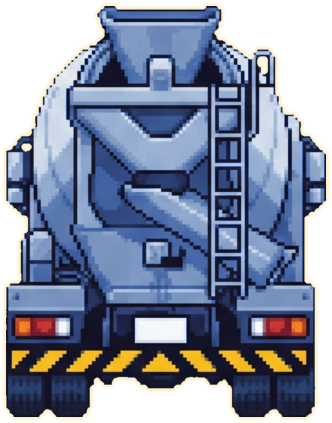
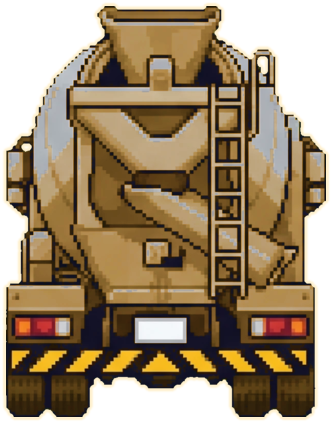
Highway: make pickups and obstacles stand out
Pickups get a pad ringed on the road, a pulsing halo, a white rim and a bob so they can't be
mistaken for cars. Cones and barriers use new high-visibility sprites (orange / yellow, rimmed),
and the SUV and mixer truck are recolored (lavender / khaki) so no vehicle shares a pickup's color.

diff --git a/app/src/main/java/com/khcompany/lanedash/ui/screens/HighwayScreen.kt b/app/src/main/java/com/khcompany/lanedash/ui/screens/HighwayScreen.kt
@@ -43,6 +43,8 @@ import androidx.compose.ui.graphics.ImageBitmap
 import androidx.compose.ui.graphics.Path
 import androidx.compose.ui.graphics.drawscope.DrawScope
 import androidx.compose.ui.graphics.drawscope.rotate
+import com.khcompany.lanedash.ui.components.FUEL_ITEM_COLOR
+import androidx.compose.ui.graphics.drawscope.Stroke
 import androidx.compose.ui.graphics.graphicsLayer
 import androidx.compose.ui.graphics.lerp
 import androidx.compose.ui.draw.alpha
@@ -297,15 +299,34 @@ fun HighwayScreen(
                 if (dz < 1f || dz > HW_DRAW_DISTANCE) continue
                 val y = horizonY + roadH * (HW_D0 / dz)
                 val idx = strips.indexForY(y, h, rowH)
-                val radius = ITEM_RADIUS * strips.halfWidth[idx]
+                val pulse = 1f + 0.08f * sin(engine.elapsedSeconds * 6f + item.id)
+                val radius = ITEM_RADIUS * strips.halfWidth[idx] * pulse
                 val cx = strips.centerX[idx] + item.lx * strips.halfWidth[idx]
-                drawGroundShadow(cx, y, radius * 1.7f, radius * 1.2f, alpha = 0.3f)
-                val center = Offset(cx, y - radius * 1.3f)
+                val color = when (item.type) {
+                    ItemType.FUEL -> FUEL_ITEM_COLOR
+                    ItemType.SHIELD -> SHIELD_ITEM_COLOR
+                    ItemType.MAGNET -> MAGNET_ITEM_COLOR
+                }
+                // A pickup must never be mistaken for a car: a pad ringed on the road, a halo, a
+                // white rim and a gentle bob — none of which a vehicle or an obstacle has.
+                drawOval(
+                    color = color.copy(alpha = 0.85f),
+                    topLeft = Offset(cx - radius * 1.5f, y - radius * 0.38f),
+                    size = Size(radius * 3f, radius * 0.76f),
+                    style = Stroke(width = max(2f, radius * 0.14f)),
+                )
+                val center = Offset(cx, y - radius * 1.35f + sin(engine.elapsedSeconds * 4f + item.id) * radius * 0.12f)
+                drawCircle(
+                    brush = Brush.radialGradient(listOf(color.copy(alpha = 0.6f), Color.Transparent), center = center, radius = radius * 2.3f),
+                    radius = radius * 2.3f,
+                    center = center,
+                )
                 when (item.type) {
                     ItemType.FUEL -> drawFuelCanItem(center, radius)
                     ItemType.SHIELD -> drawShieldItem(center, radius)
                     ItemType.MAGNET -> drawMagnetItem(center, radius)
                 }
+                drawCircle(Color.White.copy(alpha = 0.9f), radius = radius * 1.1f, center = center, style = Stroke(width = max(1.5f, radius * 0.1f)))
             }
 
             // Traffic, far to near so closer cars paint over farther ones.

diff --git a/web/js/highway-render.js b/web/js/highway-render.js
@@ -237,13 +237,33 @@ function drawHighwayFrame(ctx, w, h, engine, city, car, images) {
     if (dz < 1 || dz > HW_DRAW_DISTANCE) continue;
     const y = horizonY + roadH * (HW_D0 / dz);
     const idx = hwStrips.indexForY(y, h, rowH);
-    const radius = HW_ITEM_RADIUS * hwStrips.halfWidth[idx];
+    const pulse = 1 + 0.08 * Math.sin(engine.elapsedSeconds * 6 + item.id);
+    const radius = HW_ITEM_RADIUS * hwStrips.halfWidth[idx] * pulse;
     const cx = hwStrips.centerX[idx] + item.lx * hwStrips.halfWidth[idx];
-    drawGroundShadow(ctx, cx, y, radius * 1.7, radius * 1.2, 0.3);
-    const cy = y - radius * 1.3;
+    const color = item.type === 'FUEL' ? FUEL_ITEM_COLOR : item.type === 'SHIELD' ? SHIELD_ITEM_COLOR : MAGNET_ITEM_COLOR;
+    // A pickup must never be mistaken for a car: a pad ringed on the road, a halo, a white rim and
+    // a gentle bob — none of which a vehicle or an obstacle has.
+    ctx.strokeStyle = hexA(color, 0.85);
+    ctx.lineWidth = Math.max(2, radius * 0.14);
+    ctx.beginPath();
+    ctx.ellipse(cx, y, radius * 1.5, radius * 0.38, 0, 0, Math.PI * 2);
+    ctx.stroke();
+    const cy = y - radius * 1.35 + Math.sin(engine.elapsedSeconds * 4 + item.id) * radius * 0.12;
+    const halo = ctx.createRadialGradient(cx, cy, 0, cx, cy, radius * 2.3);
+    halo.addColorStop(0, hexA(color, 0.6));
+    halo.addColorStop(1, hexA(color, 0));
+    ctx.fillStyle = halo;
+    ctx.beginPath();
+    ctx.arc(cx, cy, radius * 2.3, 0, Math.PI * 2);
+    ctx.fill();
     if (item.type === 'FUEL') drawFuelCanItem(ctx, cx, cy, radius);
     else if (item.type === 'SHIELD') drawShieldItem(ctx, cx, cy, radius);
     else drawMagnetItem(ctx, cx, cy, radius);
+    ctx.strokeStyle = 'rgba(255,255,255,0.9)';
+    ctx.lineWidth = Math.max(1.5, radius * 0.1);
+    ctx.beginPath();
+    ctx.arc(cx, cy, radius * 1.1, 0, Math.PI * 2);
+    ctx.stroke();
   }
 
   // Traffic, far to near so closer cars paint over farther ones.

diff --git a/web/js/highway-engine.js b/web/js/highway-engine.js
@@ -95,8 +95,8 @@ const TRAFFIC_KINDS = {
   SUV: { name: 'SUV', halfWidth: 0.15, heightFactor: 0.88, minSpeed: 8.5, maxSpeed: 12.5, sprite: 'assets/rear/traffic_rear_suv.png', color: '#5C6478' },
   BUS: { name: 'BUS', halfWidth: 0.19, heightFactor: 1.05, minSpeed: 7, maxSpeed: 10.5, sprite: 'assets/rear/traffic_rear_bus.png', color: '#A7AFBF' },
   TRUCK: { name: 'TRUCK', halfWidth: 0.18, heightFactor: 1.29, minSpeed: 6, maxSpeed: 9.5, sprite: 'assets/rear/traffic_rear_truck.png', color: '#7F8CA8' },
-  CONE: { name: 'CONE', halfWidth: 0.07, heightFactor: 1.4, minSpeed: 0, maxSpeed: 0, sprite: 'assets/obstacles/obstacle_cone.png', color: '#FF7A1A' },
-  BARRIER: { name: 'BARRIER', halfWidth: 0.17, heightFactor: 0.6, minSpeed: 0, maxSpeed: 0, sprite: 'assets/obstacles/obstacle_barrier.png', color: '#E8E8E8' },
+  CONE: { name: 'CONE', halfWidth: 0.09, heightFactor: 1.35, minSpeed: 0, maxSpeed: 0, sprite: 'assets/rear/hw_cone.png', color: '#FF7A1A' },
+  BARRIER: { name: 'BARRIER', halfWidth: 0.17, heightFactor: 1.1, minSpeed: 0, maxSpeed: 0, sprite: 'assets/rear/hw_barrier.png', color: '#FFE03A' },
 };
 
 const HW = {

diff --git a/app/src/main/java/com/khcompany/lanedash/game/highway/HighwayEngine.kt b/app/src/main/java/com/khcompany/lanedash/game/highway/HighwayEngine.kt
@@ -31,8 +31,8 @@ enum class TrafficKind(
     SUV(0.15f, 0.88f, 8.5f, 12.5f, "traffic_rear_suv"),
     BUS(0.19f, 1.05f, 7f, 10.5f, "traffic_rear_bus"),
     TRUCK(0.18f, 1.29f, 6f, 9.5f, "traffic_rear_truck"),
-    CONE(0.07f, 1.4f, 0f, 0f, "obstacle_cone"),
-    BARRIER(0.17f, 0.6f, 0f, 0f, "obstacle_barrier"),
+    CONE(0.09f, 1.35f, 0f, 0f, "hw_cone"),
+    BARRIER(0.17f, 1.1f, 0f, 0f, "hw_barrier"),
 }
 
 class TrafficCar(

diff --git a/web/index.html b/web/index.html
@@ -175,8 +175,8 @@
   <script src="js/audio.js?v=7"></script>
   <script src="js/engine.js?v=11"></script>
   <script src="js/render.js?v=15"></script>
-  <script src="js/highway-engine.js?v=5"></script>
-  <script src="js/highway-render.js?v=5"></script>
+  <script src="js/highway-engine.js?v=6"></script>
+  <script src="js/highway-render.js?v=6"></script>
   <script src="js/main.js?v=19"></script>
 </body>
 </html>
